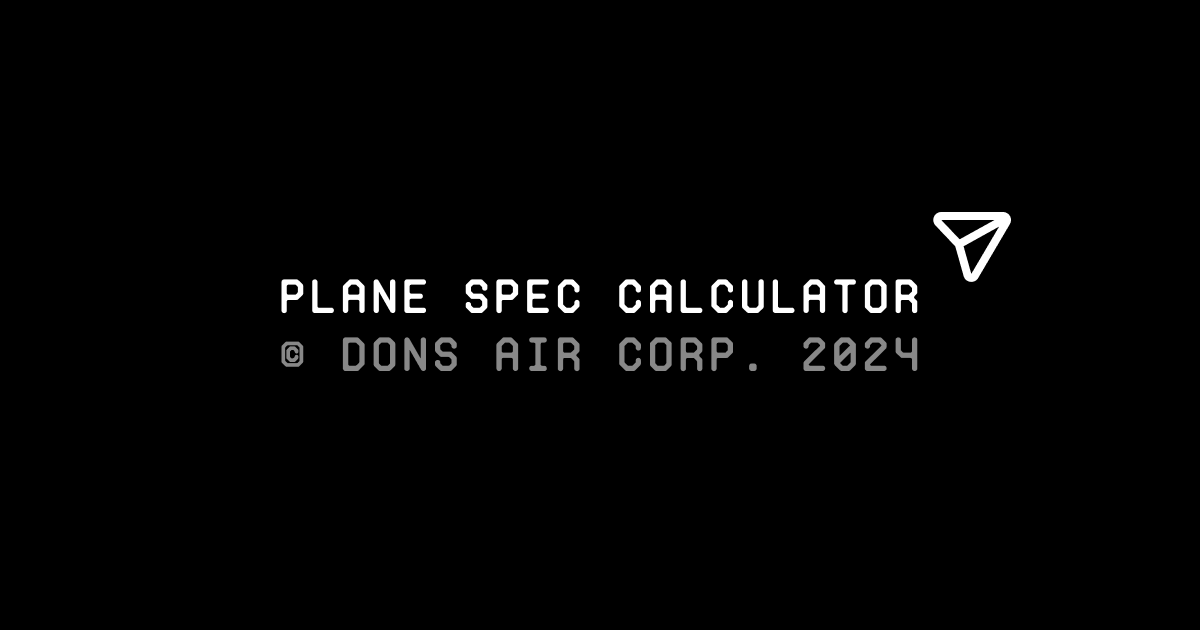
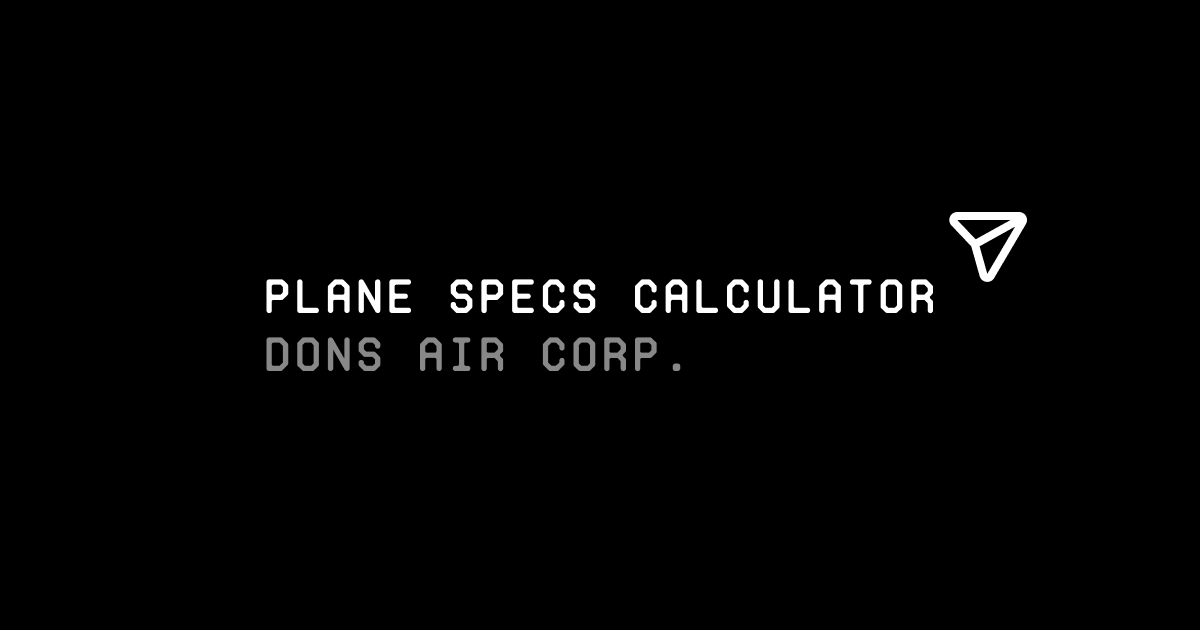
Update OG image

Changed region(s): [[0.2158, 0.4222, 0.8017, 0.6032], [0.7708, 0.3317, 0.8633, 0.4524]]

diff --git a/app/page.tsx b/app/page.tsx
@@ -1,7 +1,7 @@
 export default function Home() {
   return (
     <>
-      <h1>Plane Spec Calculator</h1>
+      <h1>Plane Specs Calculator</h1>
     </>
   )
 }
